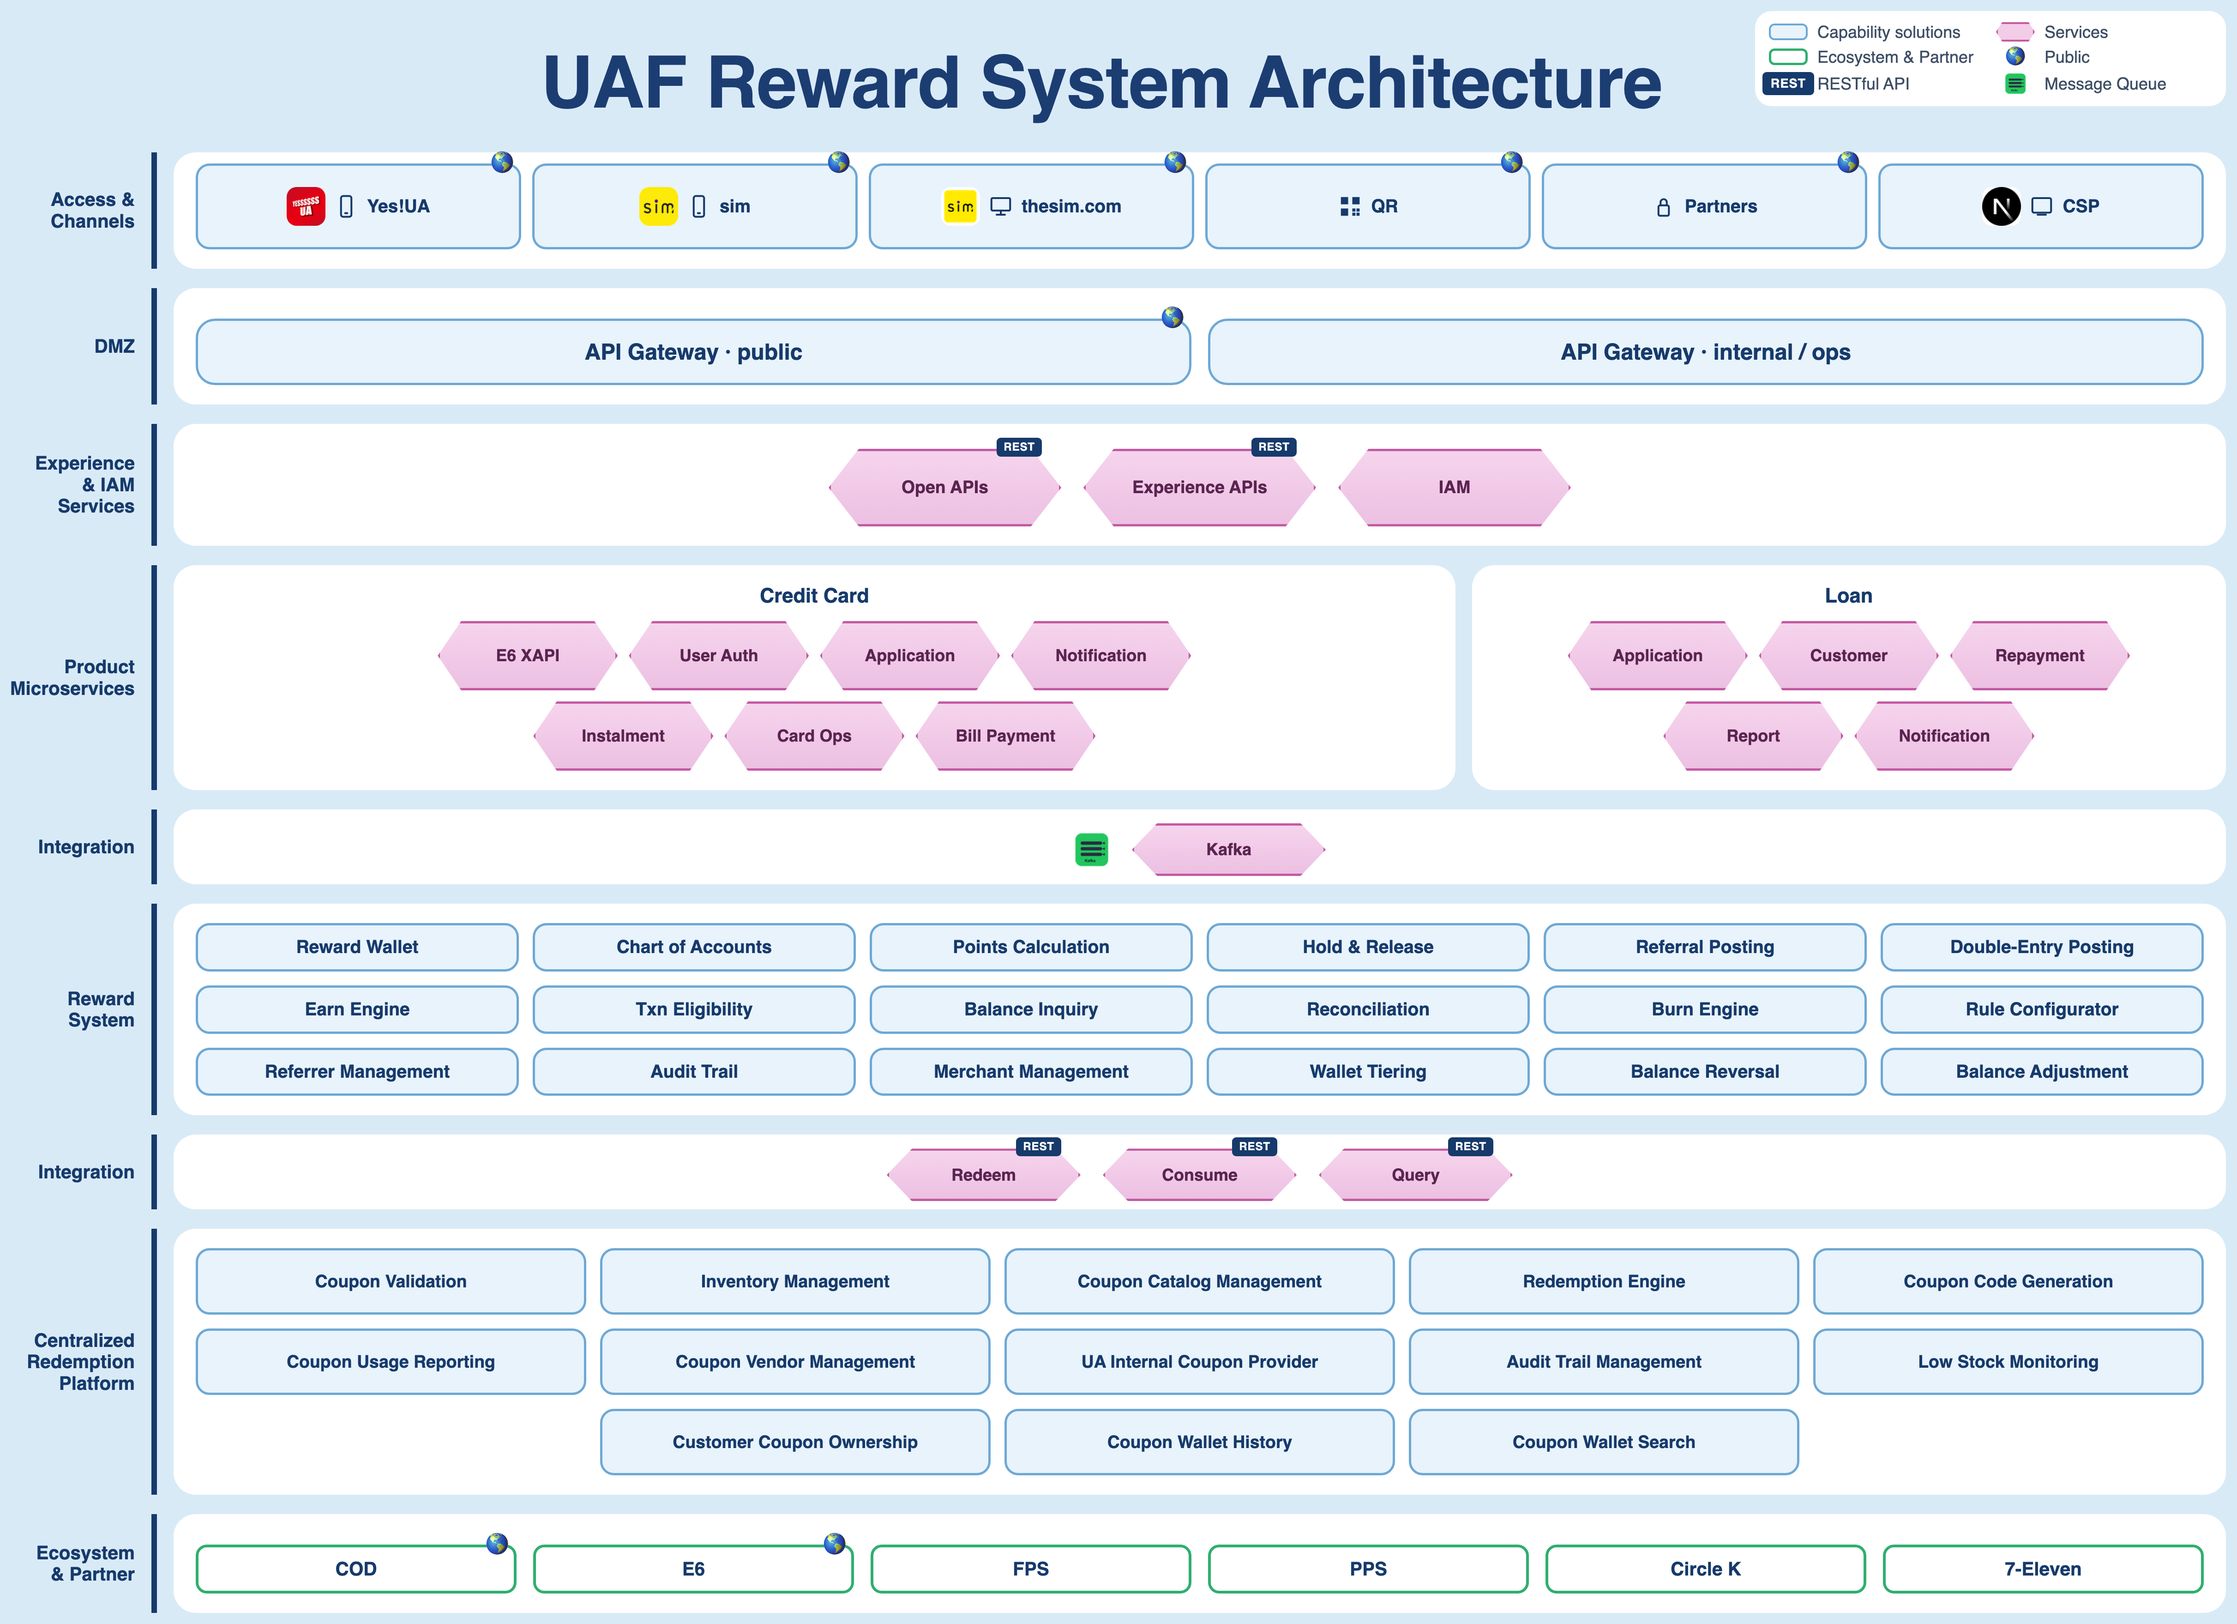
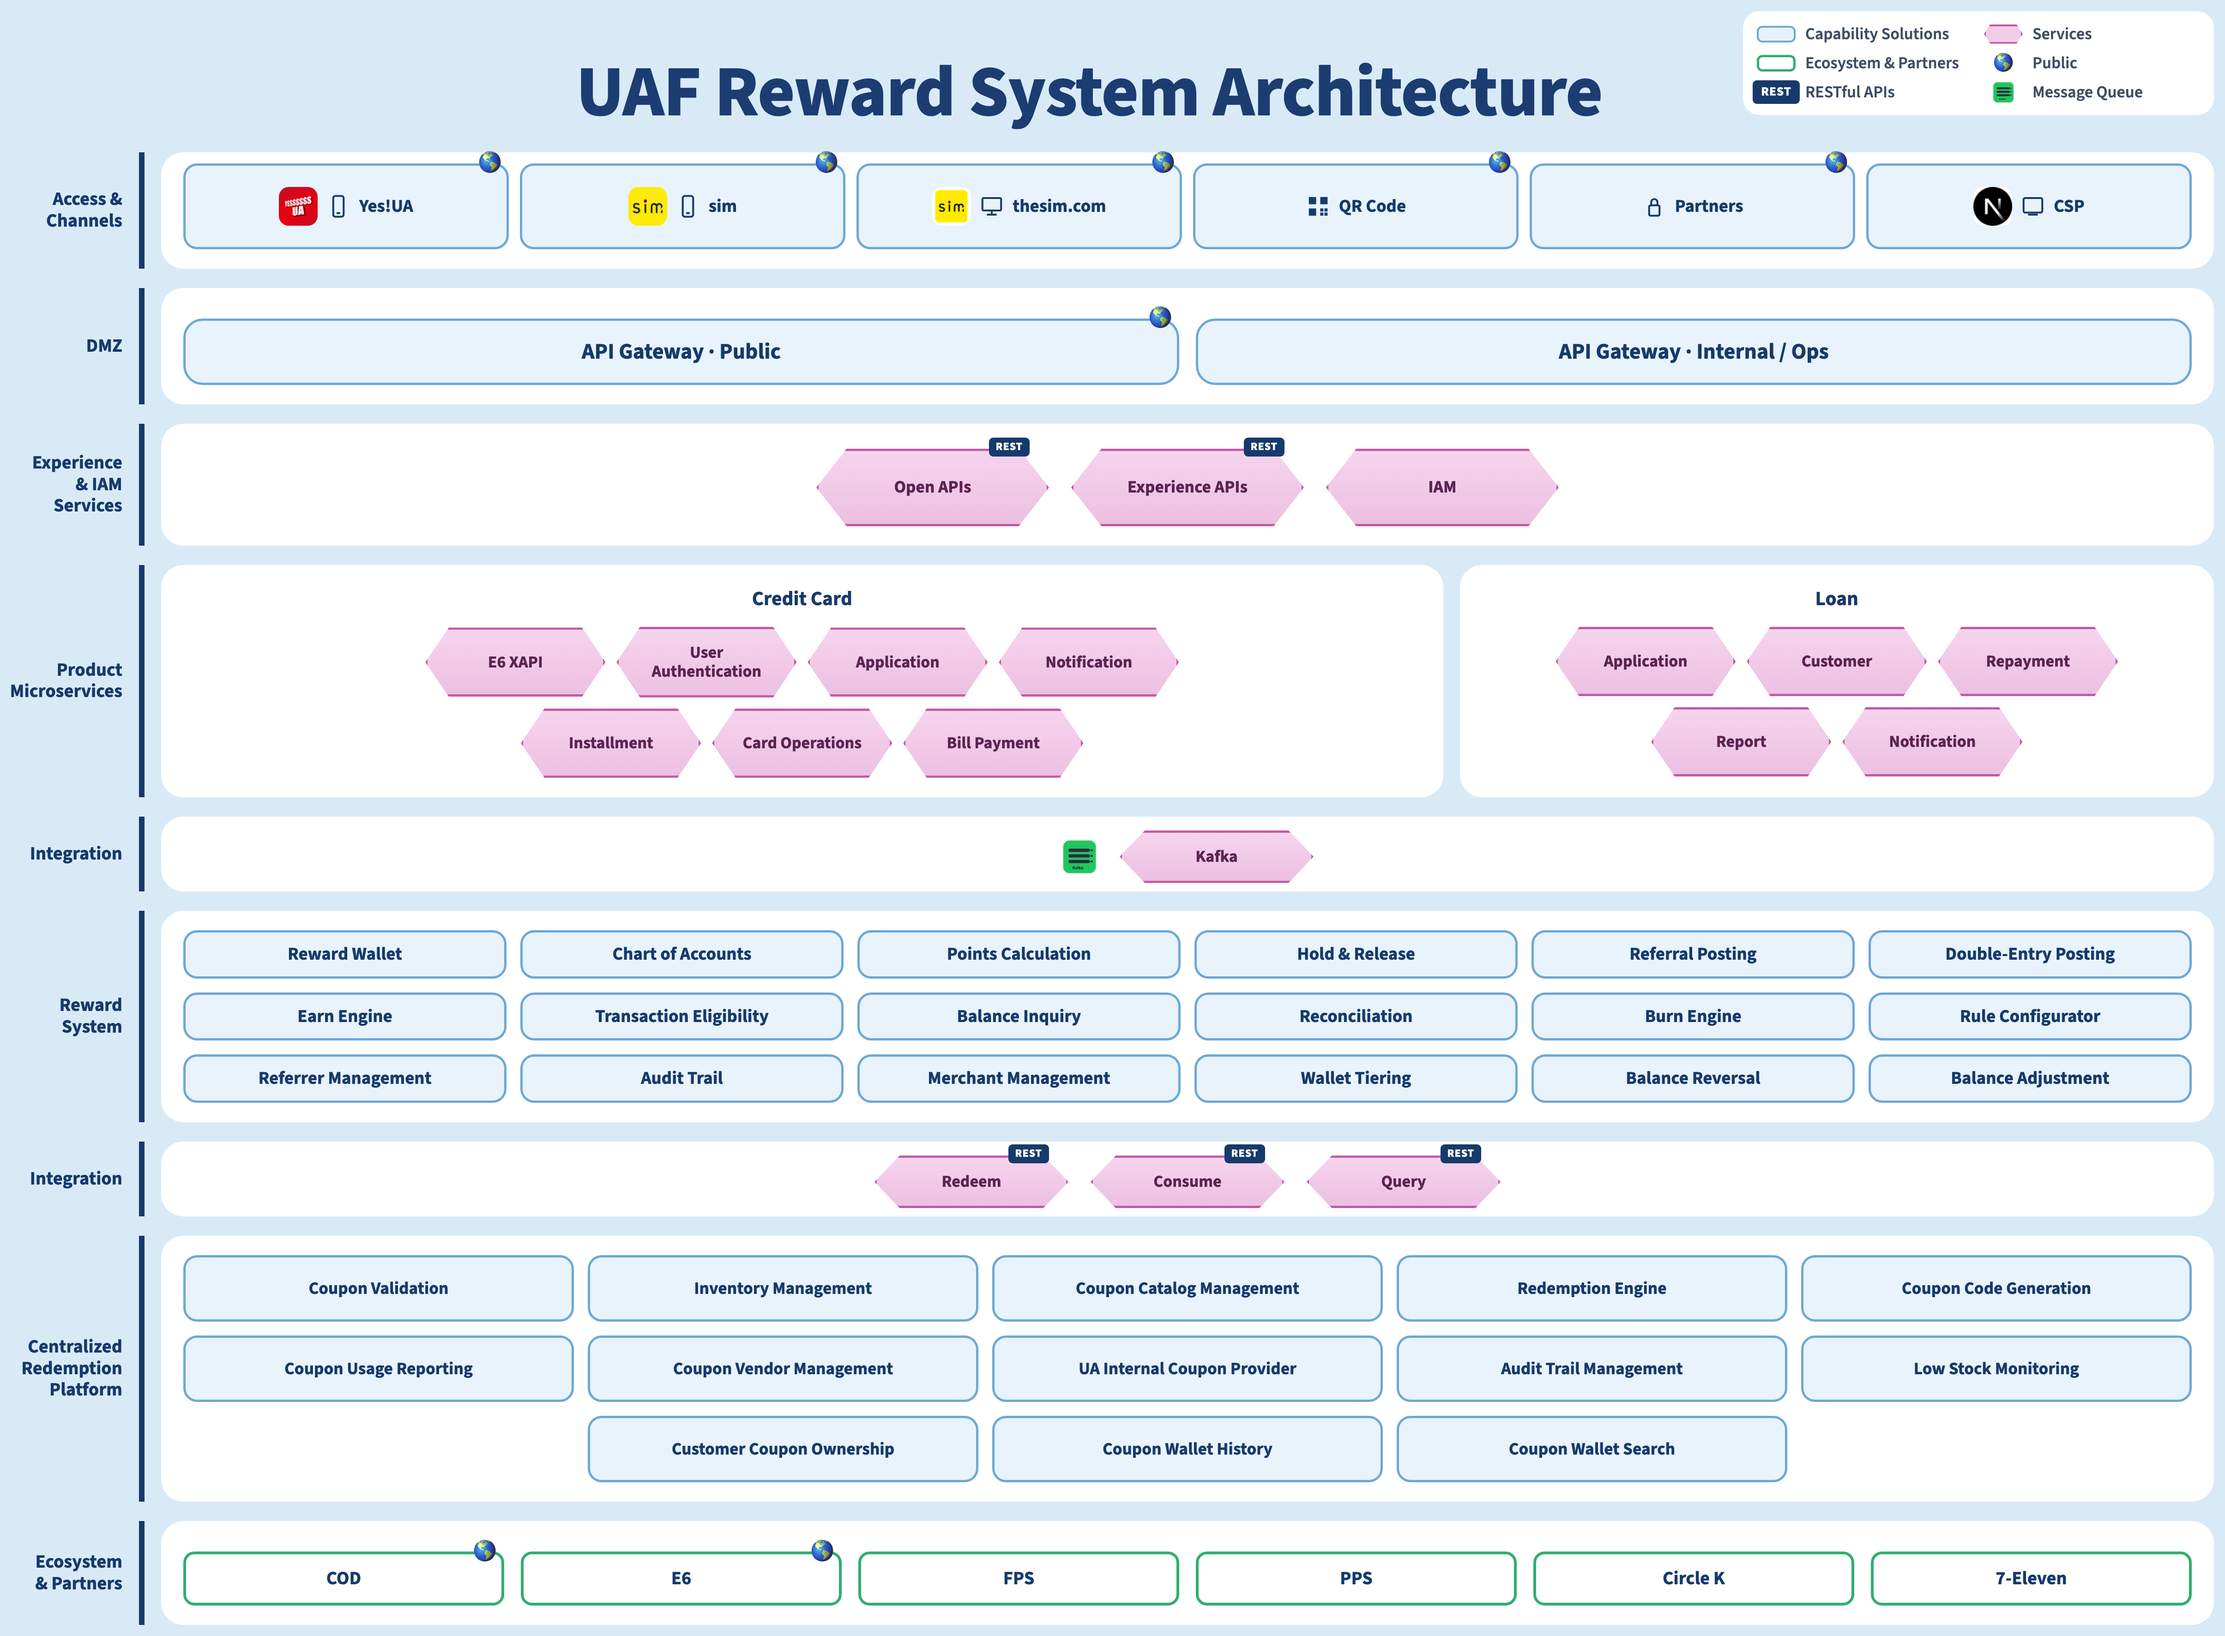
docs(decks): grammar pass — Title Case, Partners plural, QR Code, Transaction Eligibility

diff --git a/docs/decks/uaf-rewards-logical-architecture.html b/docs/decks/uaf-rewards-logical-architecture.html
@@ -101,11 +101,11 @@
   <div class="head">
     <h1>UAF Reward System Architecture</h1>
     <div class="legend">
-      <div class="li"><div class="lg-cap"></div><span>Capability solutions</span></div>
+      <div class="li"><div class="lg-cap"></div><span>Capability Solutions</span></div>
       <div class="li"><div class="lg-svc"></div><span>Services</span></div>
-      <div class="li"><div class="lg-pay"></div><span>Ecosystem &amp; Partner</span></div>
+      <div class="li"><div class="lg-pay"></div><span>Ecosystem &amp; Partners</span></div>
       <div class="li"><span class="lg-globe">🌎</span><span>Public</span></div>
-      <div class="li"><span class="badge-rest lg-rest">REST</span><span>RESTful API</span></div>
+      <div class="li"><span class="badge-rest lg-rest">REST</span><span>RESTful APIs</span></div>
       <div class="li"><img class="lg-kafka" src="logos/kafka.png" alt="Kafka"/><span>Message Queue</span></div>
     </div>
   </div>
@@ -132,7 +132,7 @@
       </div>
       <div class="cap">
         <svg class="ico" style="fill:#163a6b;stroke:none" viewBox="0 0 24 24"><rect x="3" y="3" width="7" height="7"/><rect x="14" y="3" width="7" height="7"/><rect x="3" y="14" width="7" height="7"/><rect x="14" y="14" width="3" height="3"/><rect x="18" y="14" width="3" height="3"/><rect x="14" y="18" width="3" height="3"/><rect x="18" y="18" width="3" height="3"/></svg>
-        <span>QR</span>
+        <span>QR Code</span>
         <span class="badge-pub">🌎</span>
       </div>
       <div class="cap">
@@ -150,8 +150,8 @@
     <div class="lab l2r">DMZ</div>
     <div class="card c2">
       <div class="gwrow">
-        <div class="gw">API Gateway · public<span class="badge-pub">🌎</span></div>
-        <div class="gw">API Gateway · internal / ops</div>
+        <div class="gw">API Gateway · Public<span class="badge-pub">🌎</span></div>
+        <div class="gw">API Gateway · Internal / Ops</div>
       </div>
     </div>
 
@@ -168,13 +168,13 @@
         <h3>Credit Card</h3>
         <div class="hexrow">
           <div class="svc">E6 XAPI</div>
-          <div class="svc">User Auth</div>
+          <div class="svc">User Authentication</div>
           <div class="svc">Application</div>
           <div class="svc">Notification</div>
         </div>
         <div class="hexrow" style="margin-top:8px">
-          <div class="svc">Instalment</div>
-          <div class="svc">Card Ops</div>
+          <div class="svc">Installment</div>
+          <div class="svc">Card Operations</div>
           <div class="svc">Bill Payment</div>
         </div>
       </div>
@@ -206,7 +206,7 @@
         <div class="cap">Referral Posting</div>
         <div class="cap">Double-Entry Posting</div>
         <div class="cap">Earn Engine</div>
-        <div class="cap">Txn Eligibility</div>
+        <div class="cap">Transaction Eligibility</div>
         <div class="cap">Balance Inquiry</div>
         <div class="cap">Reconciliation</div>
         <div class="cap">Burn Engine</div>
@@ -246,7 +246,7 @@
       </div>
     </div>
 
-    <div class="lab l9">Ecosystem<br>&amp; Partner</div>
+    <div class="lab l9">Ecosystem<br>&amp; Partners</div>
     <div class="card c9">
       <div class="rails">
         <div class="pay">COD<span class="badge-pub">🌎</span></div>
